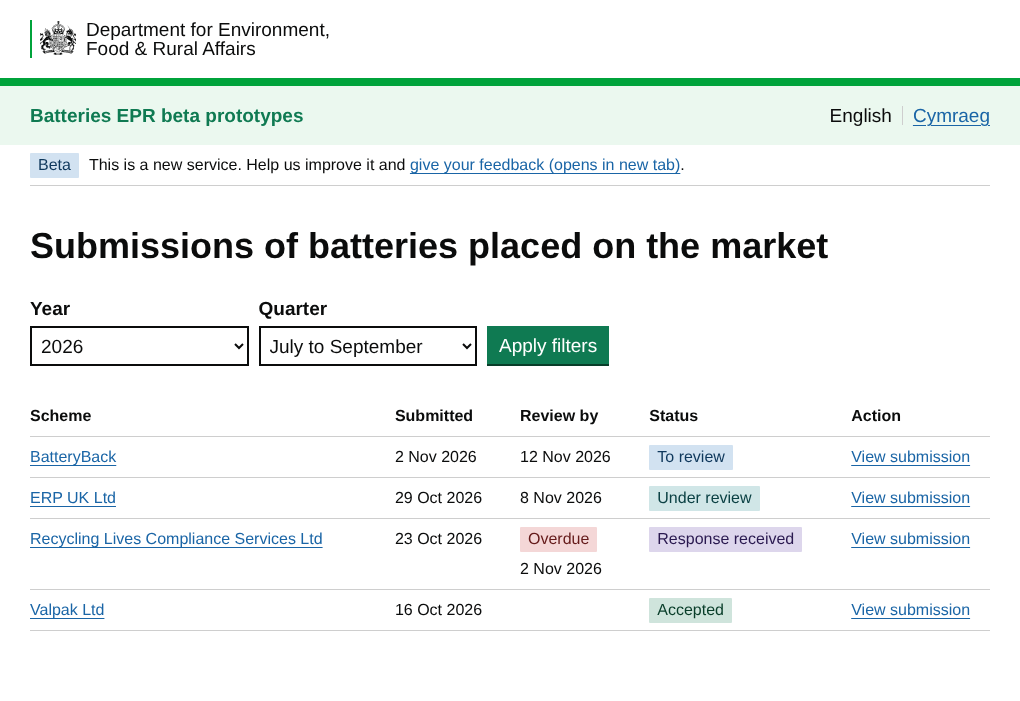
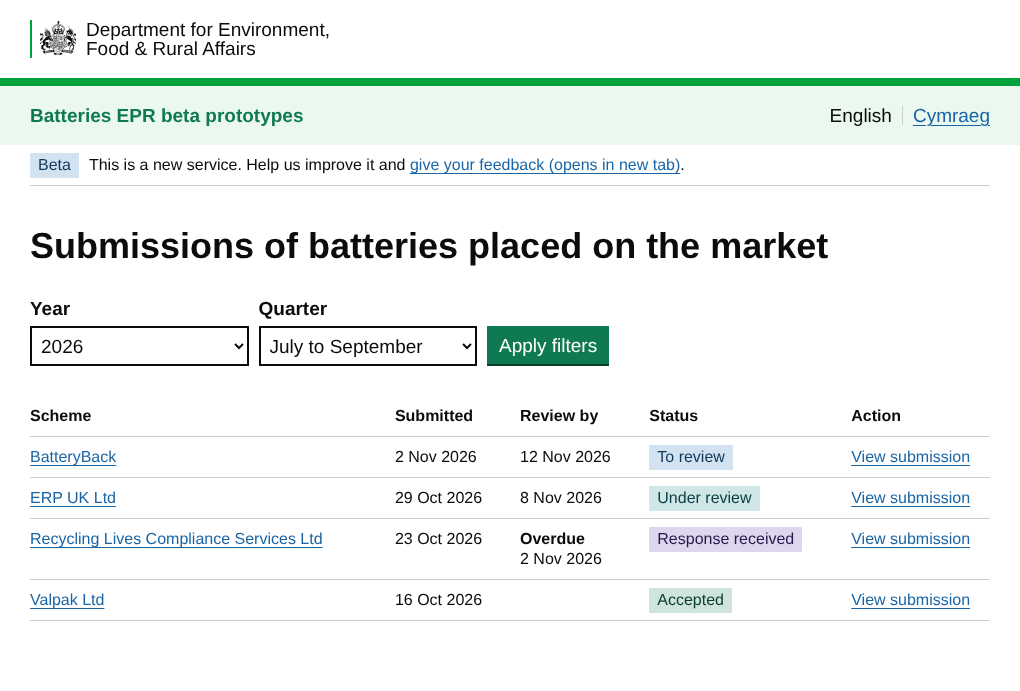
EB-324: Overdue in bold black text in both versions (no red tag)
Claude-Session: https://claude.ai/code/session_014pBrKbgm5Jfdzkw7drhM9g

diff --git a/app/views/changes/update-pom-submissions-statuses-and-overdue.html b/app/views/changes/update-pom-submissions-statuses-and-overdue.html
@@ -14,11 +14,11 @@
 <span class="govuk-caption-l">6 November 2026</span>
 <h1 class="govuk-heading-l">Update statuses, overdue and empty cells on the placed on the market submissions pages</h1>
 <p class="govuk-body"><strong class="govuk-tag govuk-tag--yellow">Change</strong></p>
-<p class="govuk-body">Jen updated the statuses, and we're trying two ways of showing that a return is overdue.</p>
+<p class="govuk-body">Jen updated the statuses and how overdue returns look.</p>
 <p class="govuk-body"><strong>Statuses</strong></p>
-<ul class="govuk-list govuk-list--bullet"><li>To review, Under review, Query raised, Response received, Accepted and Escalated, in the table and the status filter (version B)</li><li>New tag colours, because two of the old ones don't exist in GOV.UK Frontend 6, so To review and In progress looked the same. See the <a href="https://design-system.service.gov.uk/components/tag/" class="govuk-link" rel="noreferrer noopener" target="_blank">GOV.UK tag component (opens in new tab)</a></li><li>No red status tags: red is kept for Overdue</li></ul>
-<p class="govuk-body"><strong>Overdue: two versions to compare</strong></p>
-<ul class="govuk-list govuk-list--bullet"><li>Version A (latest quarter): a red Overdue tag above the review by date. The Design System uses a red tag for urgent things</li><li>Version B (all submissions): Overdue in bold black text above the date</li><li>We didn't use red text: in GOV.UK services red text means an error. See the <a href="https://design-system.service.gov.uk/components/error-message/" class="govuk-link" rel="noreferrer noopener" target="_blank">GOV.UK error message component (opens in new tab)</a></li></ul>
+<ul class="govuk-list govuk-list--bullet"><li>To review, Under review, Query raised, Response received, Accepted and Escalated, in the table and the status filter (version B)</li><li>New tag colours, because two of the old ones don't exist in GOV.UK Frontend 6, so To review and In progress looked the same. See the <a href="https://design-system.service.gov.uk/components/tag/" class="govuk-link" rel="noreferrer noopener" target="_blank">GOV.UK tag component (opens in new tab)</a></li><li>No red status tags</li></ul>
+<p class="govuk-body"><strong>Overdue</strong></p>
+<ul class="govuk-list govuk-list--bullet"><li>&quot;Overdue&quot; in bold black text above the review by date, in both versions</li><li>Not red: in GOV.UK services red text means an error. See the <a href="https://design-system.service.gov.uk/components/error-message/" class="govuk-link" rel="noreferrer noopener" target="_blank">GOV.UK error message component (opens in new tab)</a></li><li>We tried a red tag in version A first, but bold black text looks better and is clear enough</li></ul>
 <p class="govuk-body"><strong>Empty cells</strong></p>
 <ul class="govuk-list govuk-list--bullet"><li>Once a return is accepted there's nothing to review, so the Review by cell is empty on screen. Screen readers hear &quot;Not applicable&quot;, as the regulator toolkit does, instead of &quot;blank&quot;</li></ul>
 <p class="govuk-body"><strong>Kept as they are</strong></p>

diff --git a/app/views/regulator/pom-submissions/latest-quarter.html b/app/views/regulator/pom-submissions/latest-quarter.html
@@ -32,12 +32,12 @@
 {% set small = "govuk-!-font-size-16" %}
 {% macro statusTag(row) %}<strong class="govuk-tag govuk-!-font-size-16 {{ row.statusClasses }}">{{ row.status }}</strong>{% endmacro %}
 {#
-  Review by: overdue shows a red Overdue tag above the date (version A).
-  Version B tries bold black text instead, to compare.
+  Review by: overdue shows "Overdue" in bold black text above the date. Not
+  red: in GOV.UK services red text means an error. Agreed with Jen, 6 November.
   Accepted: nothing to review, so the cell is empty on screen, and screen
   readers hear "Not applicable" (as the regulator toolkit does).
 #}
-{% macro due(row, words) %}{% if row.overdue %}<strong class="govuk-tag govuk-tag--red govuk-!-font-size-16">{{ words.overdue }}</strong><span class="govuk-!-display-block govuk-!-margin-top-2">{{ row.dueText }}</span>{% elif row.dueText %}{{ row.dueText }}{% else %}<span class="govuk-visually-hidden">{{ words.notApplicable }}</span>{% endif %}{% endmacro %}
+{% macro due(row, words) %}{% if row.overdue %}<strong class="govuk-!-display-block">{{ words.overdue }}</strong>{{ row.dueText }}{% elif row.dueText %}{{ row.dueText }}{% else %}<span class="govuk-visually-hidden">{{ words.notApplicable }}</span>{% endif %}{% endmacro %}
 
 {% set tableRows = [] %}
 {% for row in rows %}

diff --git a/app/views/changes/index.html b/app/views/changes/index.html
@@ -18,7 +18,7 @@
 <div class="govuk-!-margin-bottom-6">
 <p class="govuk-body-s govuk-!-margin-bottom-1">6 November 2026 <strong class="govuk-tag govuk-tag--yellow">Change</strong></p>
 <h2 class="govuk-heading-m govuk-!-margin-bottom-2"><a class="govuk-link" href="/changes/update-pom-submissions-statuses-and-overdue">Update statuses, overdue and empty cells on the placed on the market submissions pages</a></h2>
-<p class="govuk-body">Jen updated the statuses, and we're trying two ways of showing that a return is overdue.</p>
+<p class="govuk-body">Jen updated the statuses and how overdue returns look.</p>
 </div>
 <div class="govuk-!-margin-bottom-6">
 <p class="govuk-body-s govuk-!-margin-bottom-1">5 November 2026 <strong class="govuk-tag govuk-tag--green">New</strong></p>

diff --git a/app/views/regulator/pom-submissions/all-submissions.html b/app/views/regulator/pom-submissions/all-submissions.html
@@ -55,8 +55,8 @@
 {% set small = "govuk-!-font-size-16" %}
 {% macro statusTag(row) %}<strong class="govuk-tag govuk-!-font-size-16 {{ row.statusClasses }}">{{ row.status }}</strong>{% endmacro %}
 {#
-  Review by: overdue shows "Overdue" in bold black text above the date
-  (version B). Version A tries a red tag instead, to compare.
+  Review by: overdue shows "Overdue" in bold black text above the date. Not
+  red: in GOV.UK services red text means an error. Agreed with Jen, 6 November.
   Accepted: nothing to review, so the cell is empty on screen, and screen
   readers hear "Not applicable" (as the regulator toolkit does).
 #}

diff --git a/app/data/pom-submissions.js b/app/data/pom-submissions.js
@@ -22,8 +22,8 @@ const QUARTERS = ['January to March', 'April to June', 'July to September', 'Oct
 const QUARTERS_SHORT = ['Jan to Mar', 'Apr to Jun', 'Jul to Sep', 'Oct to Dec']
 
 // Jen's statuses (6 November 2026), and their tag colours. Only colours that
-// exist in GOV.UK Frontend 6: the standard tag is blue. No red: red is for
-// the Overdue tag in version A
+// exist in GOV.UK Frontend 6: the standard tag is blue. No red: in GOV.UK
+// services red means an error
 const STATUSES = {
   'To review': '',
   'Under review': 'govuk-tag--teal',

diff --git a/app/content/regulator/pom-submissions.md b/app/content/regulator/pom-submissions.md
@@ -64,5 +64,5 @@ View submission
 ## Not applicable (only screen readers hear this, in the Review by column once a submission is accepted)
 Not applicable
 
-## Overdue (a red tag in version A, bold text in version B)
+## Overdue (bold text above the review by date)
 Overdue
